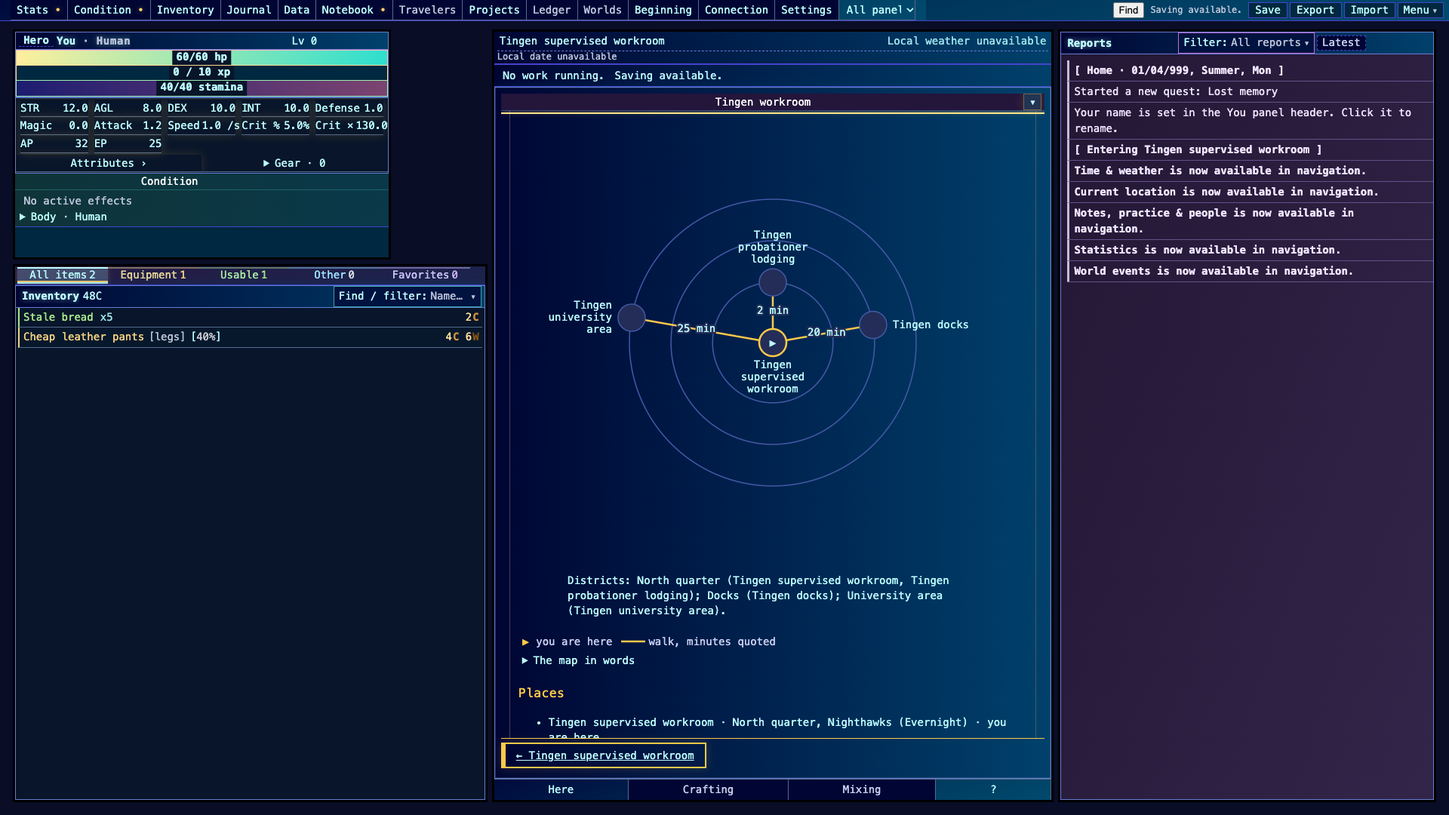
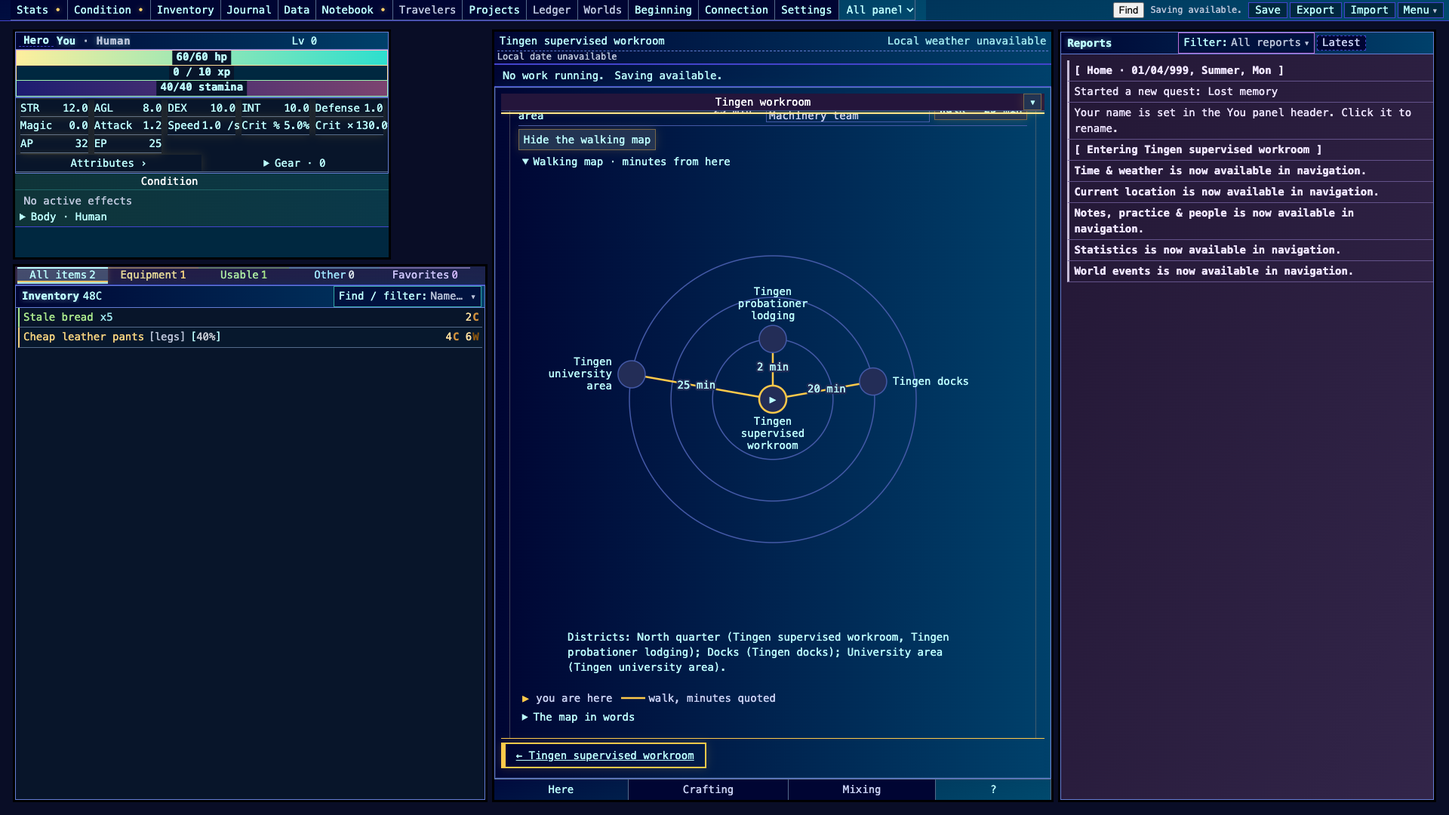
RPX14 round 2: departures board replaces Tingen places lists and district walk disclosures, walking map on request, ladder alternative, reference games, travel pacing proposals
Focused tests 42 pass (walk_board, walk_map, observer_view, perspective_controls, lotm_cast_week, figure); check:arch pass; probe on bundle f5cf867cb33cc2f2 at 1920x1080. Full suite not run (coordinator, machine load). Still below floor on the LOTM walk error (MT-F1).

(cherry picked from commit f13773adcce4241e8a0c726b3363eb780f4ded4c)

diff --git a/src/book_world_lotm_ui.js b/src/book_world_lotm_ui.js
@@ -8,6 +8,7 @@ import {renderFigure} from './ui/figure.js';
 import {ladderFigureSpec} from './ability_ladder_figure.js';
 import {riteCircleSpec,makingSpec,riskLedger} from './ui/rite_figure.js';
 import {walkMapBlock} from './ui/walk_map.js';
+import {walkBoard} from './ui/walk_board.js';
 const node=(tag,text)=>{const n=document.createElement(tag);if(text!=null)n.textContent=text;return n;};
 export const lotmPanelTitle=v=>v.resident?v.at:'Tingen workroom';
 // Surface type: place service (UR1). Home: the main workspace, discovered inside the Tingen
@@ -17,7 +18,7 @@ export function createLotmPanel({read,act,cancel,move,enroll,home}){
  const status=node('p'),meters=node('div'),path=node('div'),work=node('div'),bench=node('details'),actions=node('div'),walks=node('div'),notebook=node('div'),notice=node('p');notice.setAttribute('role','status');
  panel.append(node('h2','Tingen'),status,meters,path,work,bench,actions,walks,notebook,notice);
  decorateActionComponents(panel); // UIV1: blocked reasons visible and Tab-reachable, not title-only.
- let signature='',lastRung=null,pulseUntil=0,selected=null,benchOpen=false,planOpen=true,choosing=null,currentDistrict=null,mapOpen=true;const bars=new Map(),districtOpen=new Map(),placesOpen=new Map();bench.dataset.lotmBench='';bench.ontoggle=()=>{benchOpen=bench.open;};
+ let signature='',lastRung=null,pulseUntil=0,selected=null,benchOpen=false,planOpen=true,choosing=null,currentDistrict=null,mapOpen=false;const bars=new Map(),districtOpen=new Map(),placesOpen=new Map();bench.dataset.lotmBench='';bench.ontoggle=()=>{benchOpen=bench.open;};
  const waitButtons=new Map();
  const applySeatFilter=()=>{
   const observer=observerForProfile(read(selected)?.entryProfile);
@@ -246,26 +247,14 @@ export function createLotmPanel({read,act,cancel,move,enroll,home}){
   }
   if(v.elsewhere?.length){walks.append(node('h3','Elsewhere'));for(const person of v.elsewhere){const line=node('p',person.label);line.dataset.lotmElsewhere=person.id;walks.append(line);}}
   if(v.district&&!resident)walks.append(node('p',`${v.district.claim}`));
-  const placeLine=pl=>v.runMode?`${pl.place}${pl.here?' · you are here':` · ${pl.minutes} min`}`:`${pl.place} · ${pl.district}, ${pl.team} (${pl.church})${pl.here?' · you are here':` · ${pl.minutes} min`}`;
+  // RPX14 round 2: one departures board (nearest first, walk buttons in their rows) replaces the Places lists and
+  // per-district walk disclosures; the walking map opens below it on request. Walks with no listed place keep a plain row.
   const walkRow=m=>row(button(m.label,m.id,()=>run(()=>move(m.id),'You walk there.'),!m.eligible,m.reasons.join(' ')));
-  if(v.places?.length)walks.append(walkMapBlock(v,{open:mapOpen,ontoggle:o=>{mapOpen=o;},onPick:findControl})); // RPX14: walking time from here, known places only.
-  if(resident){
-   const here=v.places.find(pl=>pl.here)?.district;
-   if(here!==currentDistrict){districtOpen.clear();placesOpen.clear();currentDistrict=here;}
-   walks.append(node('h3','Places and walks'));
-   for(const district of new Set(v.places.map(pl=>pl.district))){
-    const group=node('details');group.dataset.lotmDistrict=district;group.open=districtOpen.get(district)??district===here;
-    group.ontoggle=()=>districtOpen.set(district,group.open);
-    const list=node('ul');list.dataset.lotmPlaces='';for(const pl of v.places.filter(pl=>pl.district===district))list.append(node('li',placeLine(pl)));
-    const places=node('details');places.open=placesOpen.get(district)??false;places.ontoggle=()=>placesOpen.set(district,places.open);
-    places.append(node('summary','Places'),list);group.append(node('summary',district),places);
-    for(const m of v.moves.filter(m=>m.label.includes(` · ${district}: `)))group.append(walkRow(m));
-    walks.append(group);
-   }
-  }else{
-   if(v.places?.length){const list=node('ul');list.dataset.lotmPlaces='';for(const pl of v.places)list.append(node('li',placeLine(pl)));walks.append(node('h3','Places'),list);}
-   for(const m of v.moves)walks.append(walkRow(m));
+  if(v.places?.length){
+   walks.append(walkBoard({...v,elsewhere:[]},{move:id=>run(()=>move(id),'You walk there.'),onToggleMap:()=>{mapOpen=!mapOpen;signature='';render();},mapShown:mapOpen}));
+   if(mapOpen)walks.append(walkMapBlock(v,{open:true,ontoggle:o=>{if(!o){mapOpen=false;signature='';render();}},onPick:findControl}));
   }
+  for(const m of v.moves.filter(m=>!v.places?.some(pl=>m.label.startsWith(`Walk to ${pl.place} · `))))walks.append(walkRow(m));
   if(v.records.length){notebook.append(node('h3','What you know'));for(const r of v.records.slice(0,6))notebook.append(node('p',r.text));}
  }
  definePanel({id:'lotm',title:'Tingen workroom',role:'actions',node:panel,home,perspective:'book.lotm.tingen',discovered:()=>{const v=read();return v.enrolled||v.startable;},eligible:()=>true,unavailableReason:()=>'Visit the Village to see the Tingen starts here'});

diff --git a/src/ui/walk_board.js b/src/ui/walk_board.js
@@ -1,0 +1,68 @@
+// RPX14 walk board: a departures list of where you can walk from here, nearest first. It replaces a
+// scattered list of places plus walk buttons. Same view as walk_map.js; only places the seat already
+// knows are listed, and a person whose usual place is not among them is never shown (SR9, LTU11).
+// The walk button keeps data-lotm so existing browser scripts still find it.
+
+// view: {places:[{place, district?, team?, here, minutes}], moves:[{id, label, eligible, reasons}],
+//        people?:[{id, label, place, when?}], elsewhere?:[{id, label}]}
+export function walkBoard(view, {move, onToggleMap, mapShown = false} = {}) {
+    const doc = globalThis.document;
+    const el = (tag, text, attrs = {}) => {
+        const node = doc.createElement(tag);
+        if (text !== undefined) node.textContent = text;
+        for (const [key, value] of Object.entries(attrs)) node.setAttribute(key, value);
+        return node;
+    };
+    const places = Array.isArray(view?.places) ? view.places : [];
+    const moves = Array.isArray(view?.moves) ? view.moves : [];
+    const known = new Set(places.map(p => p.place));
+    const people = (Array.isArray(view?.people) ? view.people : []).filter(person => known.has(person.place));
+    const moveFor = place => moves.find(m => typeof m.label === 'string' && m.label.startsWith(`Walk to ${place} · `)) || null;
+    const here = places.find(p => p.here) || null;
+    const away = places.filter(p => !p.here && Number.isFinite(p.minutes))
+        .sort((a, b) => a.minutes - b.minutes || (a.place < b.place ? -1 : a.place > b.place ? 1 : 0));
+    const farthest = Math.max(0, ...away.map(p => p.minutes));
+
+    const board = el('section', undefined, {'data-walk-board': ''});
+    board.append(el('h3', 'Places and walks'));
+    if (here) board.append(el('p', `You are at ${here.place}${here.district ? `, ${here.district}` : ''}`, {'data-walk-here': ''}));
+    const hereFolk = here ? people.filter(person => person.place === here.place) : [];
+    if (hereFolk.length) board.append(el('p', `Usually here: ${hereFolk.map(person => person.when ? `${person.label} · ${person.when}` : person.label).join(', ')}`, {'data-walk-here-people': ''}));
+
+    if (!away.length) board.append(el('p', 'You know no other places yet. Places join this list when you learn of them.', {'data-walk-empty': ''}));
+    else {
+        const list = el('ol', undefined, {'data-walk-rows': ''});
+        for (const place of away) {
+            const row = el('li', undefined, {'data-walk-place': place.place});
+            const meter = el('span', undefined, {class: 'walk-board-meter', 'aria-hidden': 'true'});
+            const fill = el('span', undefined, {class: 'walk-board-fill'});
+            fill.style.setProperty('--walk-share', String(farthest > 0 ? place.minutes / farthest : 0));
+            meter.append(fill);
+            row.append(el('span', place.place, {class: 'walk-board-name'}), meter, el('span', `${place.minutes} min`, {class: 'walk-board-minutes'}));
+            const chips = el('span', undefined, {class: 'walk-board-chips'});
+            if (place.district) chips.append(el('span', `${place.district}${place.team ? ` · ${place.team}` : ''}`, {class: 'walk-board-chip'}));
+            for (const person of people.filter(p => p.place === place.place)) {
+                chips.append(el('span', `☺ ${person.label}${person.when ? ` · ${person.when}` : ''}`, {class: 'walk-board-chip walk-board-person'}));
+            }
+            row.append(chips);
+            const walk = moveFor(place.place);
+            if (walk) {
+                const button = el('button', `Walk · ${place.minutes} min`, {type: 'button', 'data-lotm': walk.id});
+                const reasons = Array.isArray(walk.reasons) ? walk.reasons.join(' ') : '';
+                if (!walk.eligible) { button.disabled = true; button.title = reasons; }
+                button.addEventListener('click', () => { if (move && !button.disabled) move(walk.id); });
+                row.append(button);
+                if (!walk.eligible) row.append(el('small', reasons, {class: 'walk-board-reason'}));
+            }
+            list.append(row);
+        }
+        board.append(list);
+    }
+    for (const person of Array.isArray(view?.elsewhere) ? view.elsewhere : []) board.append(el('p', person.label, {'data-walk-elsewhere': ''}));
+    if (onToggleMap) {
+        const toggle = el('button', mapShown ? 'Hide the walking map' : 'Show the walking map', {type: 'button', 'data-walk-map-toggle': ''});
+        toggle.addEventListener('click', () => onToggleMap());
+        board.append(toggle);
+    }
+    return board;
+}

diff --git a/tests/walk_board.test.js b/tests/walk_board.test.js
@@ -1,0 +1,67 @@
+import test from 'node:test';
+import assert from 'node:assert/strict';
+import {createDom} from '../scripts/headless/dom.mjs';
+import {walkBoard} from '../src/ui/walk_board.js';
+import {WALK_MAP_VIEW} from '../src/ui/preview/fixtures/maps.js';
+
+function withBoard(view, options, fn) {
+    const dom = createDom(); dom.loadHTML('<html><body></body></html>');
+    const previous = globalThis.document; globalThis.document = dom.document;
+    try { return fn(walkBoard(view, options), dom); } finally { globalThis.document = previous; }
+}
+const rowFor = (board, place) => [...board.querySelectorAll('li')].find(li => li.getAttribute('data-walk-place') === place);
+
+test('rows are sorted by minutes, then by place name', () => withBoard(WALK_MAP_VIEW, {}, board => {
+    const names = [...board.querySelectorAll('li')].map(li => li.getAttribute('data-walk-place'));
+    assert.deepEqual(names, ['Rented attic', 'Glassworks yard', 'Saltgate wharf', 'Old college']);
+    assert.equal(board.querySelector('h3').textContent, 'Places and walks');
+    assert.equal(board.querySelector('[data-walk-here]').textContent, "You are at Lamplighters' hall, Hill quarter");
+}));
+
+test('walk buttons keep their data-lotm and quote minutes', () => withBoard(WALK_MAP_VIEW, {}, board => {
+    const wharf = rowFor(board, 'Saltgate wharf').querySelector('button');
+    assert.equal(wharf.getAttribute('data-lotm'), 'walk_wharf');
+    assert.equal(wharf.textContent, 'Walk · 20 min');
+    assert.equal(rowFor(board, 'Glassworks yard').querySelector('button').getAttribute('data-lotm'), 'walk_glass');
+}));
+
+test('a blocked walk is disabled and its reason is visible text', () => withBoard(WALK_MAP_VIEW, {}, board => {
+    const row = rowFor(board, 'Old college'), button = row.querySelector('button');
+    assert.equal(button.disabled, true);
+    assert.equal(button.title, 'The college gate shuts at dusk.');
+    assert.equal(row.querySelector('small').textContent, 'The college gate shuts at dusk.');
+    assert.equal(rowFor(board, 'Saltgate wharf').querySelector('small'), null);
+}));
+
+test('people show only at places the seat knows', () => withBoard(WALK_MAP_VIEW, {}, board => {
+    const chips = [...rowFor(board, 'Saltgate wharf').querySelectorAll('.walk-board-person')];
+    assert.deepEqual(chips.map(c => c.textContent), ['☺ Mott the tally clerk · mornings']);
+    assert.doesNotMatch(board.textContent, /stranger|Hidden cellar/);
+    assert.equal(board.querySelector('[data-walk-here-people]').textContent, 'Usually here: Widow Pell · evenings');
+    assert.equal(board.querySelector('[data-walk-elsewhere]').textContent, 'Your cousin lives in another city');
+}));
+
+test('clicking an eligible walk calls move with its id', () => {
+    const picked = [];
+    withBoard(WALK_MAP_VIEW, {move: id => picked.push(id)}, (board, dom) => {
+        rowFor(board, 'Saltgate wharf').querySelector('button').dispatchEvent(new dom.classes.Event('click', {bubbles: true}));
+    });
+    assert.deepEqual(picked, ['walk_wharf']);
+});
+
+test('a lone place shows the empty line and no map toggle without a callback', () => withBoard({places: [{place: 'Roadside inn', here: true, minutes: 0}]}, {}, board => {
+    assert.match(board.querySelector('[data-walk-empty]').textContent, /You know no other places yet/);
+    assert.equal(board.querySelector('[data-walk-rows]'), null);
+    assert.equal(board.querySelector('[data-walk-map-toggle]'), null);
+}));
+
+test('the meter scales to the farthest place and the map toggle calls back', () => {
+    let toggled = 0;
+    withBoard(WALK_MAP_VIEW, {onToggleMap: () => toggled++}, (board, dom) => {
+        assert.equal(rowFor(board, 'Old college').querySelector('.walk-board-fill').style.getPropertyValue('--walk-share'), '1');
+        const toggle = board.querySelector('[data-walk-map-toggle]');
+        assert.equal(toggle.textContent, 'Show the walking map');
+        toggle.dispatchEvent(new dom.classes.Event('click', {bubbles: true}));
+    });
+    assert.equal(toggled, 1);
+});

diff --git a/styles/walk_board.css b/styles/walk_board.css
@@ -1,0 +1,13 @@
+/* RPX14 walk board: departures list, nearest first. Tokens only. */
+[data-walk-board] { color: var(--theme-text, var(--ui-text)); font-size: var(--ui-type-small); line-height: var(--ui-line-small); }
+[data-walk-board] > :is(p, button) { margin: var(--ui-space-2) 0 0; }
+[data-walk-rows] { list-style: none; margin: var(--ui-space-3) 0 0; padding: 0; }
+[data-walk-rows] > li { display: grid; grid-template-columns: minmax(10em, 1.2fr) minmax(3em, 6em) 4.5em minmax(0, 1.6fr) auto; align-items: center; gap: var(--ui-space-2) var(--ui-space-3); padding: var(--ui-space-2) 0; border-bottom: var(--ui-space-hairline) solid var(--theme-border, var(--ui-hairline)); }
+.walk-board-meter { display: block; height: var(--ui-space-2); background: var(--theme-border, var(--ui-hairline)); overflow: hidden; }
+.walk-board-fill { display: block; height: 100%; width: calc(var(--walk-share) * 100%); background: var(--theme-accent, var(--ui-accent)); }
+.walk-board-minutes { white-space: nowrap; color: var(--theme-muted, var(--ui-hairline)); }
+.walk-board-chips { display: flex; flex-wrap: wrap; gap: var(--ui-space-2); min-width: 0; }
+.walk-board-chip { padding: 0 var(--ui-space-2); border: var(--ui-space-hairline) solid var(--theme-border, var(--ui-hairline)); color: var(--theme-muted, var(--ui-hairline)); }
+.walk-board-person { color: var(--theme-text, var(--ui-text)); }
+[data-walk-rows] > li > button { justify-self: end; white-space: nowrap; }
+.walk-board-reason { grid-column: 1 / -1; color: var(--theme-danger, var(--ui-meter-limit)); font-size: var(--ui-type-small); }

diff --git a/src/ui/walk_map.js b/src/ui/walk_map.js
@@ -77,6 +77,15 @@ export function walkMapSpec(view) {
     }};
 }
 
+// Alternative form for the gallery (round 2, item 18): the same walks as one straight ladder, nearest
+// first, so rings and a line can be compared. Steps are evenly spaced; the minutes are in the words.
+export function walkLadderSpec(view) {
+    const places = Array.isArray(view?.places) ? view.places : [], here = places.find(p => p.here);
+    const away = places.filter(p => !p.here && Number.isFinite(p.minutes)).sort((a, b) => a.minutes - b.minutes || a.place.localeCompare(b.place));
+    return {id: 'walk-ladder', size: 720, title: here ? `Walks from ${here.place}, nearest first` : 'Walks, nearest first',
+        tracks: [{id: 'ladder', label: 'Minutes from here', steps: [{label: here ? here.place : 'Here', state: 'current'}, ...away.map(p => ({label: `${p.place} · ${p.minutes} min`}))]}]};
+}
+
 // RPX14 / SUI15 route strip (gallery proposal, not yet fed by the game): one walk as a track, with
 // the people you passed at your witness level. route: {from, to, minutes, passed:[{label, at, seen}]}
 export function routeStripSpec(route) {

diff --git a/src/ui/preview/fixtures/maps.js b/src/ui/preview/fixtures/maps.js
@@ -1,6 +1,6 @@
 // RPX14 walk map fixtures (invented names, CLR3). Built by the real adapter from a place-panel view,
 // so the gallery exercises the same path as the game.
-import {walkMapSpec, routeStripSpec} from '../../walk_map.js';
+import {walkMapSpec, walkLadderSpec, routeStripSpec} from '../../walk_map.js';
 
 export const WALK_MAP_VIEW = {
     places: [
@@ -27,4 +27,5 @@ export const WALK_MAP_FIXTURE = walkMapSpec(WALK_MAP_VIEW).spec;
 export const WALK_MAP_ALONE_FIXTURE = {...walkMapSpec({places: [{place: 'Roadside inn', here: true, minutes: 0}]}).spec, id: 'walk-map-alone'};
 export const ROUTE_STRIP_FIXTURE = routeStripSpec({from: 'Lamplighters\' hall', to: 'Saltgate wharf', minutes: 20,
     passed: [{label: 'Mott the tally clerk', at: 'bridge, 6 min'}, {label: 'a hooded figure', at: 'fish market, 14 min', seen: false}]});
-export const MAP_FIXTURES = [WALK_MAP_FIXTURE, WALK_MAP_ALONE_FIXTURE, ROUTE_STRIP_FIXTURE];
+export const WALK_LADDER_FIXTURE = walkLadderSpec(WALK_MAP_VIEW);
+export const MAP_FIXTURES = [WALK_MAP_FIXTURE, WALK_LADDER_FIXTURE, WALK_MAP_ALONE_FIXTURE, ROUTE_STRIP_FIXTURE];

diff --git a/index.html b/index.html
@@ -25,6 +25,7 @@
         <link rel="stylesheet" href="styles/scene_card.css">
         <link rel="stylesheet" href="styles/figure.css">
         <link rel="stylesheet" href="styles/combat_versus.css">
+        <link rel="stylesheet" href="styles/walk_board.css">
         <link rel="stylesheet" href="styles/meter_bar.css">
         <link rel="stylesheet" href="styles/corc_readability.css">
         

diff --git a/docs/representations/MAPS_AND_TRAVEL.md b/docs/representations/MAPS_AND_TRAVEL.md
@@ -123,3 +123,151 @@ already asserts the recentre once the walk lands).
 Next slice: feed people's known usual places (MT-F2) from cast schedules through the host
 view, filtered by the seat's knowledge; then the route strip (MT-D3) during a walk, with
 "on the way" lines from schedules that cross the route.
+
+## Round 2 (2026-10-30): review against other games, fresh eyes and room
+
+Brief: [round 2](../gm/dispatch/ui-refactor-wave-2026-10-29/ROUND2_BRIEF.md), items 1-21.
+Everything here, round 1 included, is a draft and the current best, open to replacement with a
+reason (AD45). Codes continue as MT2-*.
+
+### Other games (item 1)
+
+A Sonnet reader summarised these from memory, with no web check this session. "Known" means
+recalled from play or docs, not re-verified.
+
+| Game | What it does | Mechanism we take |
+|---|---|---|
+| Sunless Sea | Sea chart of zones; fuel and supplies tick while you sail (known) | A trip is a priced choice: show what the minutes displace, not only the minutes |
+| Disco Elysium | One district as one place with a mood; places open because someone mentioned them (known) | A place joins your list with its source attached ("Mott told you") |
+| Caves of Qud | Coarse world map plus a journal of places and what you learned there (known) | The journal is the map's memory: each place carries how and when you learned it |
+| Kenshi | Huge map, territory shading, danger learned by walking into it (known) | Route risk as a label from your own last walk ("quiet last time"), never a hidden number |
+| Majora's Mask, Bombers' Notebook | Each person's day as entries of place and hour, filled when witnessed (known) | Who-is-where-when as recorded observations, the core of "usually here" |
+| Pathologic 2 | Every walk costs the day; people are found at their haunts or not (known) | "Usually here at this hour" with a confidence, so a missed meeting reads as normal |
+
+Our own baselines: the native "Move somewhere else" list (YAIR) is a flat menu without
+minutes; the drainage site already draws its own room map. Neither quotes travel time.
+
+### Fresh-player test (item 2)
+
+Opened from a fresh life at 1920×1080 (Village, Tingen probationer, report in). Five-second
+read of round 1: the rings look like a map, but nothing says what the rings are until you read
+the text form, and the district line under the figure is a wall of names. The walk buttons
+sit apart from the map, in per-district disclosures that start closed, so "where can I go" takes
+two clicks. Terms a newcomer must know: "district", the church team names, "vouch". Numbers
+without meaning: none on the map (every number is minutes), but the rings have no scale label.
+
+### Decisions
+
+| Code | Item | Decision | Why |
+|---|---|---|---|
+| MT2-1 | 3, 18, 21 | **The default form is a departures board, not the rings.** One row per known place, nearest first: name, a distance meter, minutes, a district and team chip, chips for people usually there, and the walk button with its reason visible when blocked. The ring map moves behind "Show the walking map", closed by default | "Where can I go and how long" is a sorted-list question; a ring shows the same order with less room for words and no buttons. A table with actions first fits better than a circle (item 18) |
+| MT2-2 | 4 | Distance meter on each row: a thin bar, share of the farthest known walk, with the minutes in words beside it | Answers "how far compared with the rest" at a glance (UR61); the words carry the fact (UR37) |
+| MT2-3 | 18 | Forms by part: board (table) for walking now; rings (figure) for the shape of nearby walks; a positional map (figure, free placement with `at`) only when the seat holds a map (MT-D2); a route strip (track) for a walk under way; swimlanes (places down, hours across) for who is where when (MT5). The ladder alternative (one straight track) is in the gallery and reads worse: `figure.js` tracks count progress ("0 of 5 done"), which a distance scale is not | Each part gets the form of its question; the ladder result is a finding for the figure owner (MT2-F2) |
+| MT2-4 | 3, 16 | The board replaces the Tingen panel's "Places" lists and per-district walk disclosures, keeping each walk button's `data-lotm` id, so saved scripts and the floor run still find them | Two views answered one question; merge them (item 3). Panel shell and center density stay with the Worlds lane (item 14) |
+| MT2-5 | 5 | Pop-out: a "Walks" panel earns a second-screen pop-out once it is its own panel, showing the board and, beside it, the swimlane of who is where now. No badge or notification by default; a notification only for "the person you are waiting for has arrived" in follow mode | The board is consulted between actions; a second screen keeps it open without covering the work. Arrival is the one event worth an interrupt |
+| MT2-6 | 6 | Insight or cheat view: places you have not learned appear as dashed "?" rows marked with the cheat's name (for example "Town sense"), with minutes; people's full schedules fill the swimlane in a cheat colour with the cheat named. Sealed places and sealed people stay out unless the cheat is their discovery route. The developer inspector stays separate | Cheats are features (CS1: knowledge cheats live in records and overlays); the mark keeps earned and granted knowledge apart |
+| MT2-7 | 7, 20 | Alternative style in the gallery: the ladder (MT2-3). Semantic roles in specs today: `current` (you), `walk`, `usually here`, `strained` (blocked). Flair later: in a foggy industrial city, gas-lamp halos on lit routes at night and soot-grey for unknown streets; in a cultivation world, routes as qi paths with sect territory as ink washes. Both restyle roles, not the adapter | Item 20: name roles now, motifs later |
+| MT2-8 | 9 | Unconventional option: **ask for directions.** No map at all until you own one; you ask a person, and they answer in their words with their errors ("past the fish market, about twenty minutes, mind the dock gate after dusk"). Their answer becomes a board row with the person as source. Worth a later slice: it turns knowledge of places into a social act (SR7, SR8) | Diegetic, and it fits "a place joins with its source" from Disco Elysium |
+| MT2-9 | 13 | Flourish: a short settle glow on the row you just arrived at and on a newly learned place, using the existing glow tokens and the `fig-fx--glow` class; off under effects off and reduced | A real event, bound to its subject (UR38, UR62) |
+| MT2-10 | 14 | Reports lines for travel, proposed: "Walked to {place} · {n} min", grouped as "3 walks · 47 min" when repeated, the place name linking to its board row; an "on the way" line names who you passed at your witness level. The Reports shell stays with the Time lane | Subject first, repeats grouped (RPT1-RPT12) |
+| MT2-11 | 17 | Later volumes and worlds: the board and rings read rows, so a later city adds places and a minutes table, not code. Checked: the reading status and other-books readiness notes carry no travel-specific rows yet. Open needs: more cities joined by journeys of hours or days (the existing Journeys block quotes route text, and belongs on the board as a second section "Farther"), districts by the dozen (group rows by district with the nearest group open), travel by vehicle (a mode column: walk, cab, train, with cost), and places that are not on a street (dream or spirit places reached by a method, shown as a row whose cost is the method, not minutes) | The board scales by rows and groups; the rings do not past about twenty places |
+| MT2-12 | 19 | Depth: a place's depth is how well you know it (heard of, found the way, visited, know its hours, know who is there when). The glance shows only minutes and chips; the row opens to that ladder and its sources | Levels beyond "known or not", one click deep (UR42) |
+
+### Audit gaps (item 10)
+
+- Lead run and other seats: the board reads the host view, so resident and classic lives both
+  get it; a thin life with one known place gets the empty line. Seat knowledge comes from the
+  host's filter, resident lives only (round 1 note).
+- Empty and error states: lone place, all walks blocked (each row shows its reason; when every
+  row shares one reason this repeats, so a later pass can lift it to one line).
+- Persistence: none; the map's open state is panel memory only.
+- Performance: the board is one list item per place, rebuilt only on the panel's signature
+  change; the figure stays closed until asked for, so its SVG is built only when opened (MT2-F3).
+- Accessibility: walk buttons are real buttons in reading order; blocked reasons are visible
+  text; the map keeps its text form.
+
+### ACT NOW (done this round)
+
+- MT2-1, MT2-2, MT2-4: `src/ui/walk_board.js` (built by a Sonnet subagent to an exact spec,
+  reviewed and adjusted here) with `styles/walk_board.css`; the Tingen panel's walks block now
+  shows the board, and the walking map opens from "Show the walking map" (closed by default).
+  Walks with no listed place keep a plain button row.
+- MT2-3, MT2-7: `walkLadderSpec` in `src/ui/walk_map.js` and the ladder gallery fixture.
+- Fresh-player fixes: walks are one click away in reading order, nearest first, each with its
+  minutes, district and team on the row; no closed disclosure in the way.
+
+### ACCOUNT FOR NOW
+
+- Keep `data-lotm` ids on walk buttons; floor and replay scripts click them.
+- Keep the rings' spec roles stable (MT2-7) so a motif pack can restyle them.
+
+### LATER / DELEGATE
+
+| Item | Level | Effort | Done check |
+|---|---|---|---|
+| Walks as its own panel with a pop-out (MT2-5) | Sonnet build, Opus review | Medium: panel registration through the domain registry, one `main.js`-neutral line | Pops out in the desktop shell and falls back to a center view in the browser |
+| Swimlane layout in `figure.js` for who is where when (MT2-3, MT5) | Sonnet build, coordinator merge (shared file) | Medium | A generic swimlane spec with a test and a gallery fixture; two consumers named (maps, time) |
+| Ask for directions (MT2-8) | Opus design | Medium | One person answers with an error that the walk later corrects, recorded with its source |
+| Settle glow on arrival and on a newly learned row (MT2-9) | Sonnet build | Small, once walks land (MT-F1) | Glow shows on the arrived row and is absent under effects off |
+| Insight view (MT2-6) | Sonnet build | Small once a cheat exists | A cheat-marked "?" row appears and a sealed place does not |
+| Group rows by district and a "Farther" journeys section (MT2-11) | Sonnet build | Small | A resident life with more than 12 places shows groups, nearest open |
+
+### Round 2 findings
+
+| Code | Finding | Owner |
+|---|---|---|
+| MT2-F1 | MT-F1 still blocks every walk; sent to the coordinator with the exact error and the probe command | LOTM host |
+| MT2-F2 | `figure.js` tracks always count progress ("0 of 5 done"), so a scale or ladder that is not progress reads wrong. A `progress: false` track option would fix it for every session | Figure owner (shared file) |
+| MT2-F3 | The walking map's SVG is built only while it is shown, so a closed map costs nothing per render | This lane, done |
+
+### Round 2 receipt
+
+Files: `src/ui/walk_board.js`, `styles/walk_board.css`, `tests/walk_board.test.js` (new);
+`src/ui/walk_map.js` (ladder spec); `src/ui/preview/fixtures/maps.js` (ladder fixture);
+`src/book_world_lotm_ui.js` (board replaces the Places lists and district walk disclosures);
+`index.html` (one `walk_board.css` link); `scripts/playtest/walk-map-probe.mjs` (board checks);
+evidence in `docs/representations/evidence/maps/` (`walk-board.png`, `gallery-walk-ladder.png`,
+refreshed live captures and probe JSON).
+
+Checks:
+
+- `node --test tests/walk_board.test.js tests/walk_map.test.js`: 11 pass.
+- `node scripts/playtest/walk-map-probe.mjs docs/representations/evidence/maps`: pass on bundle
+  `f5cf867cb33cc2f2`, 1920×1080, fresh origin: report in → board shown nearest first, district
+  disclosures gone → map opens from the board → a map click focuses that place's board row →
+  walk refused by MT-F1.
+- Focused set per AD36 (tests importing changed files): `node --test tests/walk_board.test.js tests/walk_map.test.js tests/observer_view.test.js tests/perspective_controls.test.js tests/lotm_cast_week.test.js tests/figure.test.js`: 42 pass, 0 fail. `npm run check:arch`: pass, growth 0. Full suite not run at the coordinator's request (machine load); `tests/cast_ability_adapter.test.js` also imports the panel and timed out before this change (round 1).
+- Gallery capture at 1920×1080, both themes: no page errors.
+- Not checked: 21 px text and effects off on the live board (the board has no effects; 21 px
+  is a known gap for the next capture).
+
+Floor (AD43): unchanged from round 1, implemented, below floor until MT-F1 lands.
+Agent-verified, not human-reviewed.
+
+## Travel pacing (proposals, 2026-10-30)
+
+Direction: Weibao, recorded in USER_VISION, "Travel time matters but does not decide the
+quality of play (2026-10-30)". Travel time is a real factor and may gate some things through
+travel windows, but by default it does not make play much better or worse. Each line below is a
+default, a dial and an in-world reason.
+
+| Code | Default | Dial | Reason |
+|---|---|---|---|
+| TP1 | **Dead time is the enemy, not distance.** A routine walk compresses to one montage line in Reports ("Walked to the docks · 20 min") with the real minutes still quoted and spent (SUI14). A walk can carry work: reading a held note, an inference, talking with a companion, the "on the way" meetings (SUI15) | How much work fits a walk depends on the means (you cannot read while rowing) and the seat's skills | You think, read and chat while you walk; only the clock moves |
+| TP2 | **Means trade time for cost, and are earned.** Walk (free, slow), cab or carriage (coin, faster, a driver who sees where you went), a learned movement ability (its own cost and risk), a contact who carries word so you need not go. Each works by its mechanism (AD38); the board's row shows each means you actually have, with its minutes and cost | The world's transport and the seat's money, abilities and contacts | Faster travel exists in the world; you get it by paying, learning or knowing someone, not from a menu |
+| TP3 | **A missed window has an aftermath.** The scene settles without you, you learn what happened at your witness level (SUI7, RPT2), and where the world allows there is a later way back in (a second chance, a hearsay lead, an apology) | Loop and deadline worlds can make a window final, with their reason | The world does not wait, but people still talk about what happened |
+| TP4 | **Planning helps.** "Go when ready" leaves at the right minute for a known appointment, and the board shows the next firm clock beside its travel time ("Docks · 20 min · shift ends in 35 min", LTU2), so arriving late is a choice, not a surprise | Off for players who want to manage every step | You know how long the walk takes; a sensible person sets off in time |
+| TP5 | **Windows are wide by default** (the lead-life timing rule: events, order and windows). A loop or deadline world narrows them with its in-world reason | Per world, per scene | Most of life tolerates being a little late |
+| TP6 | **Idle play keeps travelling.** A walk under way continues while you are away, and the return digest says where you are now and who you passed | The Time lane's digest owns the shell | The clock keeps running; the digest is the walk's montage |
+| TP7 | **Measure it.** In a fixed-seed run, compare two lives that differ only in a near or far lodging; a large gap in what the player can reach in a week is a calibration signal for minutes or window widths | The size of the acceptable gap is a tuned number | Travel should shape days, not decide outcomes |
+
+Folded into this slice: TP1's quoted minutes on every board row and button, and TP4's groundwork
+(the board is where the next firm clock will sit). LATER, with done checks:
+
+| Item | Level | Effort | Done check |
+|---|---|---|---|
+| TP1 montage Reports line and walk-time work | Sonnet build after MT-F1 | Small | A walk writes one grouped line; a held note can be read during the walk and the walk's minutes are spent once |
+| TP2 means column on the board | Sonnet build, Opus review of costs | Medium | A cab row shows coin and fewer minutes only when the seat can afford and reach a cab |
+| TP3 missed-window aftermath | Opus design with the scene lane | Medium | Arriving after a window shows what happened, at witness level, and one route back in |
+| TP4 "go when ready" and next firm clock on the row | Sonnet build | Small | The university row shows the gatehouse shift end next to 25 min; "go when ready" leaves in time |
+| TP7 near/far lodging measurement | Sonnet, headless bot | Small | Two fixed-seed runs reported side by side with the reachable-scene counts |
